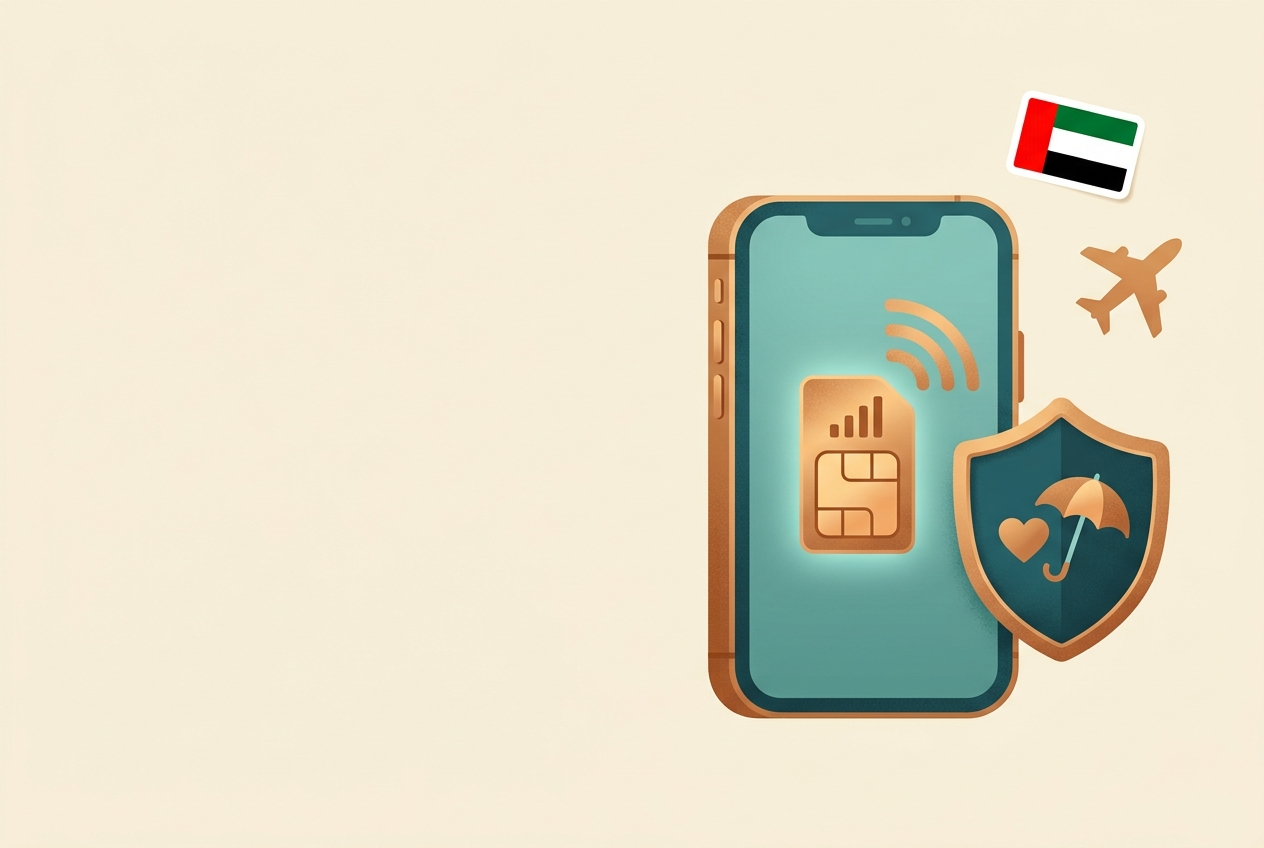
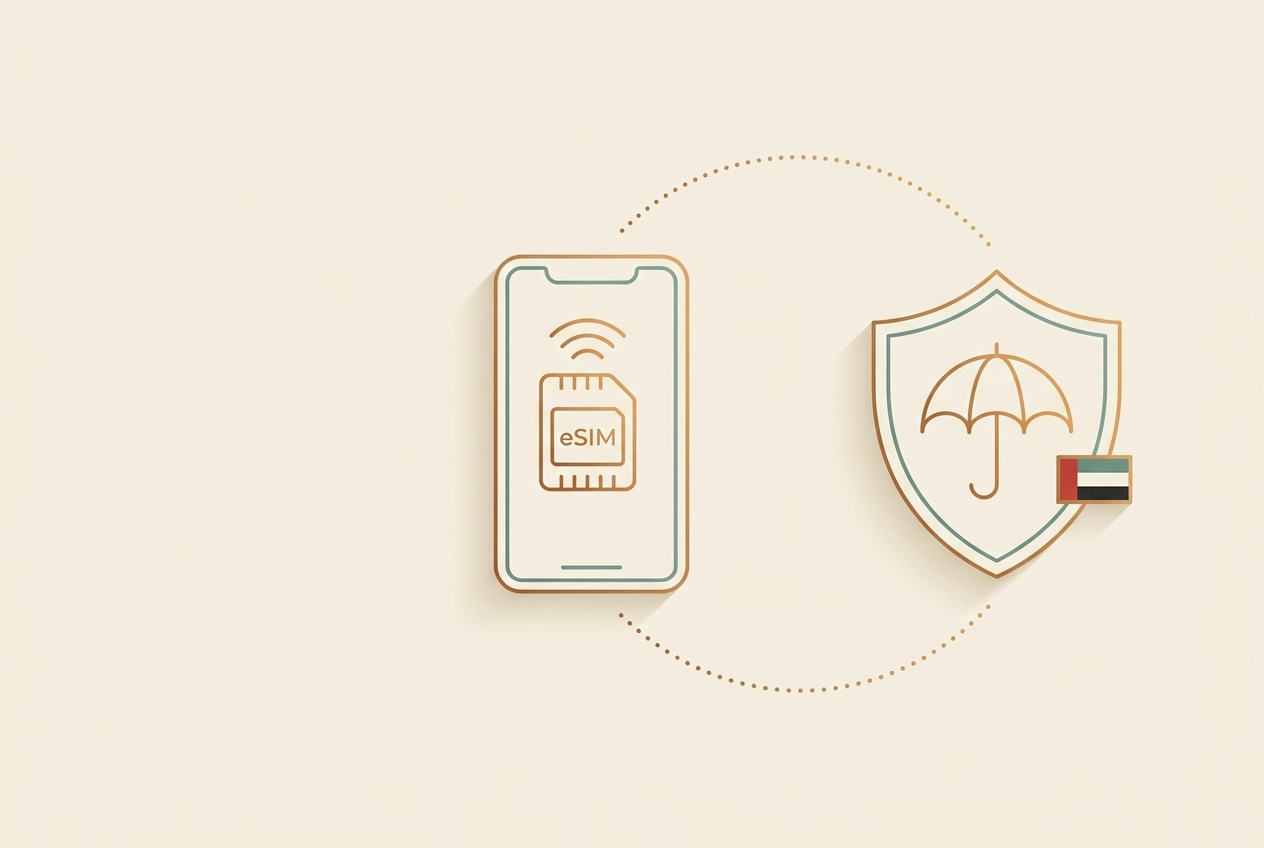
## Vesikalık sahnesi yenilendi + kod inceleme sonucu - **Yeni görsel**: vesikalık sahnesinde artık **bir erkek ve bir kadın** portresi var; cilt tonları nötr (kırmızı yüz sorunu gitti), çerçeveler kurumsal-izometrik, yanında onay tikleri ve üstü çizili gözlük/şapka simgeleri. eSIM & sigorta sahnesi 
- Next Action Items:
  - **Log Temizliği**: Zami'nin tekrarlayan chromium uyarısını susturup logları okunabilir yapalım
  - **Acil Uyarı Bağlantısı**: 72 saatten az kalan başvurularda "Anında Ekspres" kademesini tek tıkla öneren uyarı ekleyelim
  - **eSIM Sayfası Tazeleme**: Dubai eSIM sayfasına paket karşılaştırma tablosu ve kurulum adımları ekleyelim
  - **Anlatım Paylaşımı**: Anlatımı tek başına açılan bir sayfaya koyup WhatsApp'ta link olarak paylaşalım

Changed region(s): [[0.3703, 0.2146, 0.9565, 0.8585], [0.8022, 0.092, 0.9256, 0.2453]]

diff --git a/memory/PRD.md b/memory/PRD.md
@@ -650,3 +650,25 @@ Kullanıcı yeni senaryo + yönetmen notu verdi (ilk %30 sıcak/sakin, orta bilg
   Dubai sizi bekliyor". Duyuru şeridi metni de "A Grubu ... güvencesi" olarak hizalandı.
 - Doğrulama: ilk etkileşimde intro.mp3 (7.7 sn) çalıyor, cta noktasına tıklayınca cta.mp3
   (17.6 sn) çalıyor, altyazılar yeni senaryo metniyle görünüyor.
+
+## 2026-06-06 · Kod inceleme bulguları: TAMAMI FALSE POSITIVE (iteration_75)
+Kullanıcının paylaştığı rapordaki 4 "kritik" bulgu doğrulandı ve **kod değişikliği
+gerekmedi**; testing_agent ile regresyon doğrulaması yapıldı (backend %100, 65/65 pytest):
+- `zami_rpa.py:90` "exec() güvenlik açığı" → satır `await asyncio.create_subprocess_exec(...)`;
+  sabit argv ile playwright kurulumu. Projede hiçbir yerde `exec()`/`eval()` yok.
+- "insurance_tasks ↔ routes_store döngüsel import" → `insurance_tasks.py:17` yalnızca `db`den
+  import ediyor; `routes_store.py:575` importu fonksiyon gövdesinde (lazy).
+  POST /api/orders (ins_8d) 200 → lazy import yolu gerçekten çalışıyor.
+- "7 tanımsız değişken (F821)" → `ruff check --select F821` 0 hata; server import/başlatma temiz.
+- "`is` ile literal karşılaştırma (F632)" → tüm kullanımlar `is None` / `is not None`;
+  ruff F632/E711/E712 = 0.
+- Not (testing_agent'tan): `zami_rpa` her ~10 dk "bundled chromium unavailable" WARNING
+  yazıyor; çalışmayı etkilemiyor (fallback var), sadece log gürültüsü — istenirse log seviyesi
+  düşürülebilir.
+
+### Anlatım görselleri profesyonelleştirildi (2026-06-06)
+- `extras.jpg`: oyuncak görünümlü çizim yerine **monoline (ince çizgi) kurumsal illüstrasyon**
+  (telefon + eSIM sinyalleri, şemsiyeli kalkan, BAE bayrak detayı).
+- `photo.jpg`: kullanıcı isteğiyle **erkek + kadın** iki vesikalık kartı, nötr cilt tonu
+  (kırmızı yüz sorunu giderildi), izometrik çerçeveler + onay tikleri, üstü çizili gözlük/şapka.
+  Eski dosyalar `*.old.jpg` olarak duruyor.
